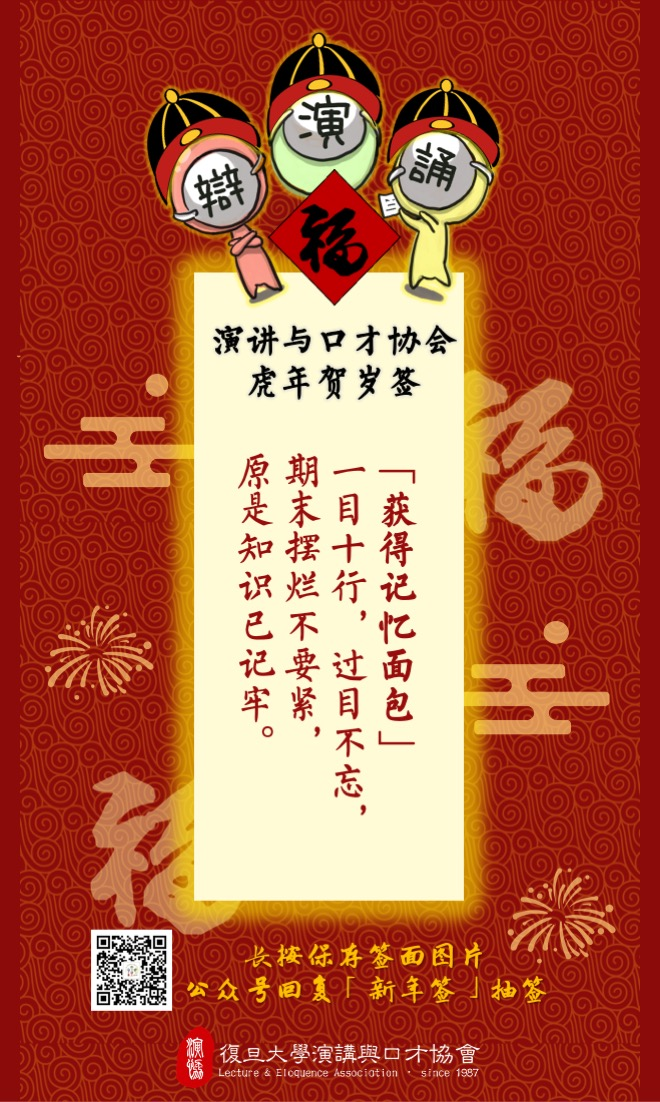
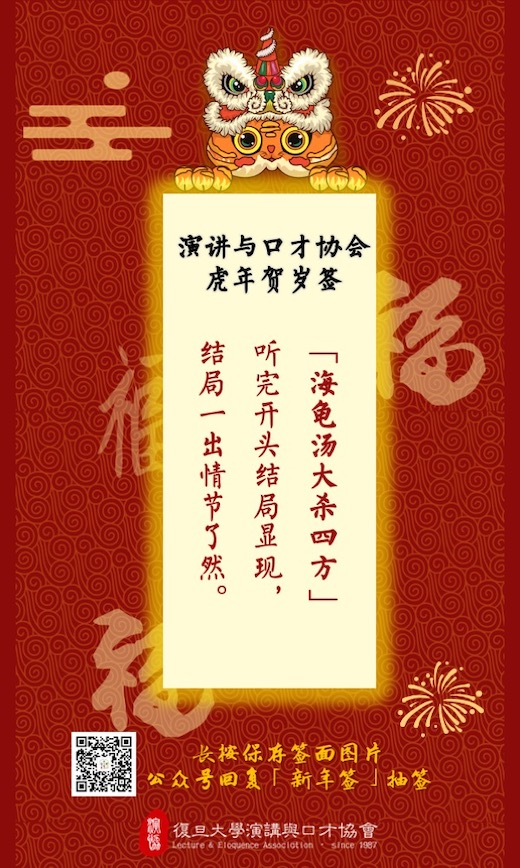
push

diff --git a/index.html b/index.html
@@ -10,12 +10,11 @@
     <meta name="viewport" content="width=device-width, initial-scale=1, maximum-scale=1, user-scalable=no">
     <title>“抽签”</title>
     <link rel="stylesheet" href="./css/style.css">
-    <link rel="prerender" href="lots1.html">
     <script src="https://cdn.bootcss.com/jquery/1.11.0/jquery.min.js"></script>
     <script src="http://code.changer.hk/jquery/plugins/jquery.cookie.js"></script>
     <script type="text/javascript"></script>
     <script>
-        var n = Math.floor(Math.random() * 5 + 1);    // 可均衡获取 0 到 9 的随机整数。
+        var n = Math.floor(Math.random() * 26 + 1);    // 可均衡获取 0 到 9 的随机整数。
         var bgStr = "images/Slide" + n + ".jpeg";
         //预加载
         var newImg = new Image();
